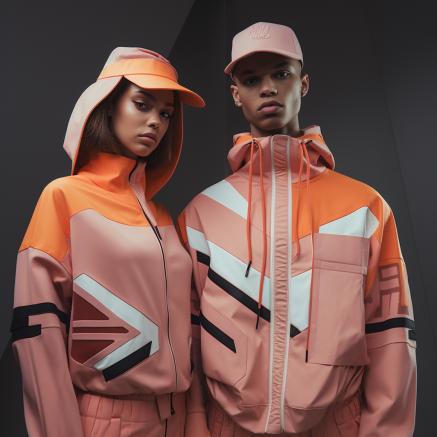
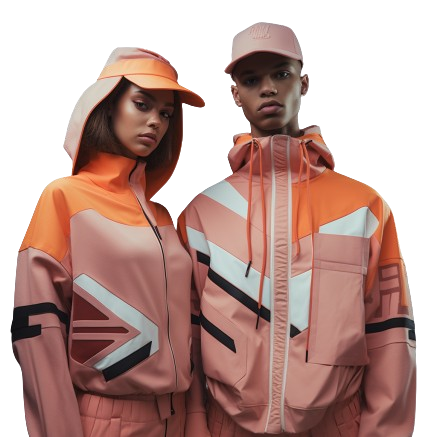
added home page code and css

diff --git a/Frontend/src/components/home/Home.css b/Frontend/src/components/home/Home.css
@@ -1,5 +1,74 @@
 @import url('https://fonts.googleapis.com/css2?family=Playwrite+NG+Modern:wght@100..400&display=swap');
+@import url('https://fonts.googleapis.com/css2?family=Montserrat:ital,wght@0,100..900;1,100..900&display=swap');
+
+#home::before {
+  background: url('../../assets/hero1.png') no-repeat center center/cover;
+  content: '';
+  width: 28rem;
+  position: absolute;
+  height: 28rem;
+  z-index: -1;
+  display: block;
+  top: 10rem;
+  right: 9rem;
+  border-radius: 15rem;
+  background-color: rgb(182, 187, 192);
+}
+
+#home {
+  display: flex;
+  flex-direction: column;
+  justify-content: center;
+  align-items: flex-start;
+  height: 70vh;
+  padding: 3rem;
+}
+
+#homeContainer {
+  width: 55%;
+  text-align: center;
+}
 
 #homeContainer h1 {
   font-family: 'Playwrite NG Modern', cursive;
+  font-size: 2rem;
+}
+
+.btn {
+  padding: 0.5rem 1rem;
+  background-color: black;
+  color: white;
+  font-family: 'Montserrat', sans-serif;
+  border: none;
+  border-radius: 1rem;
+  font-weight: bold;
+  transition: all 0.5s;
+}
+
+.btn:hover {
+  filter: invert(100%);
+  cursor: pointer;
+}
+
+#category {
+  display: flex;
+  justify-content: space-evenly;
+  align-items: center;
+  padding: 5rem 0;
+}
+
+.categoryCard {
+  width: 15rem;
+  background-color: aliceblue;
+  height: 15rem;
+  display: flex;
+  justify-content: center;
+  align-items: center;
+  border-radius: 1rem;
+  transition: all 0.3s ease-in-out;
+}
+
+.categoryCard:hover {
+  cursor: pointer;
+  transform: scale(1.05);
 }

diff --git a/Frontend/src/components/home/Home.jsx b/Frontend/src/components/home/Home.jsx
@@ -6,9 +6,19 @@ const Home = () => {
     <>
       <section id="home">
         <div id="homeContainer">
-          <h1>“Your Digital Shopping Destination.”</h1>
-          <button type="button">Buy Now</button>
+          <h1>
+            “Stay Stylish and Keep Sprinting Towards Your Fashion Goals With
+            StreetStyleSprint!”
+          </h1>
+          <button type="button" className="btn">
+            Buy Now
+          </button>
         </div>
+      </section>
+      <section id="category">
+        <div className="categoryCard">MEN</div>
+        <div className="categoryCard">WOMEN</div>
+        <div className="categoryCard">KID</div>
       </section>
     </>
   )
